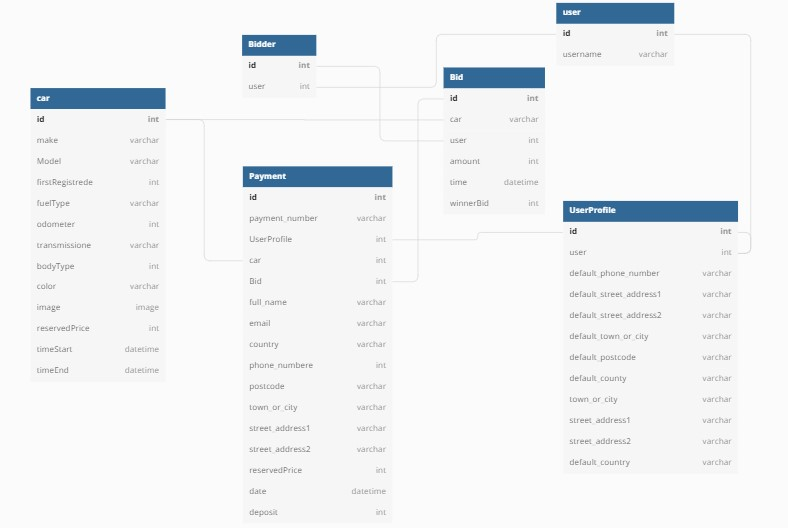
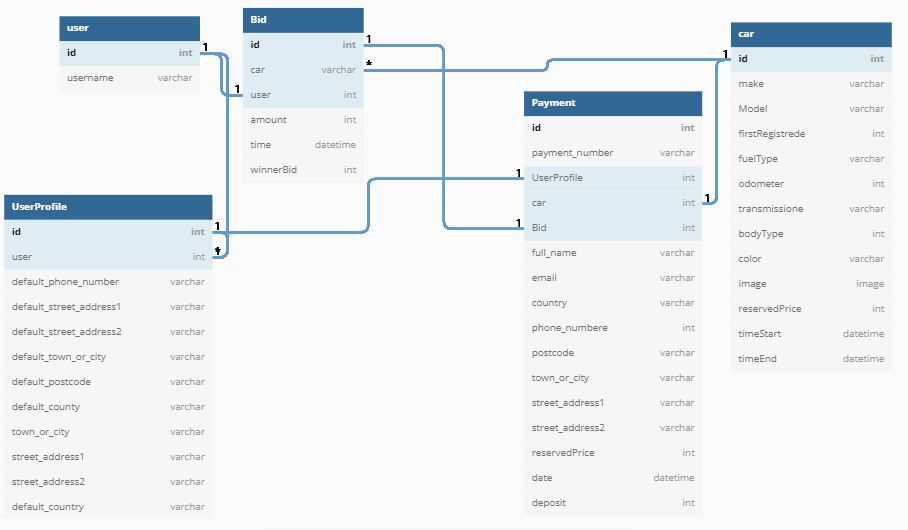
added to Readme

diff --git a/README.md b/README.md
@@ -4,11 +4,11 @@
 
 Classic Cars Auctions is an online auction website specializing in classic cars, offering enthusiasts the opportunity to buy vehicles from across the eras. It is designed to be responsive and accessible on a range of devices, making it easy to navigate for potential customers.
 
-- Home page on diffrent divices<br>
+ Home page on diffrent divices<br>
 <h2 align="center"><img src="readme_files/images/homepage.jpg"></h2><br><br>
-- Auctions page on diffrent divices<br>
+ Auctions page on diffrent divices<br>
 <h2 align="center"><img src="readme_files/images/auctionspage.jpg"></h2></h2><br><br>
-- Auction_detail page on diffrent divices<br>
+Auction_detail page on diffrent divices<br>
 <h2 align="center"><img src="readme_files/images/auction_detail.jpg"></h2></h2><br><br>
 
 ## User Experience (UX)
@@ -91,20 +91,13 @@ Classic Cars Auctions is an online auction website specializing in classic cars,
     1. Car Model:<br> 
     represents an auction and contains all car necesserey information.</br></br>
         <h3 align="center"><img src="readme_files/images/car_model.jpg"></h3><br><br>
-        
-        
-    2.  Bidder Model:<br>
-        The Bidder Model contains all the information about the bidding user and is related to User by One To One relationship.
-        </br></br>
-        <h3 align="center"><img src="readme_files/images/Bidder_model.jpg"></h3> 
 
     3. The bid Model :<br> contains all information about the bid placed by the user and a Boolean field winnerBid, which is set by default to None. Once the auction ends, if the given bid is a winning bid, the field's value is updated to True.
         </br></br>
         <h3 align="center"><img src="readme_files/images/bid_model.jpg"></h3> </br></br>
 -   #### Models Relationship for Auctions App
     1. The Car Model is related to the Bid Model by relation OnetoMany as the Bid model takes The car model as ForegineKey. 
-    2. The bidder Model is related to Bid Model by relation OnetoMany as the Bid model takes The user field, the only field in the Bidder model, as ForegineKey. 
-    3. The bidder model is related to Allauth User Model by relation OneToOne.
+    2. The Bid model is related to Allauth User Model by relation OneToOne.
     </br></br>
     <h3 align="center"><img src="readme_files/images/auction_relation.jpg"></h3> </br></br>
 
@@ -125,10 +118,12 @@ Classic Cars Auctions is an online auction website specializing in classic cars,
 -   #### Models
     1. UserProfile Model:<br> 
     The UserProfile Model contains all user detail needed for payment as the Payment Model use the data stored in the UserProfile Model.</br></br>
-        <h3 align="center"><img src="readme_files/images/allapps-relations.jpg"></h3><br><br>
+    <h3 align="center"><img src="readme_files/images/UserProfile.jpg"></h3><br><br>    
 
 -   ### Relationship between Models across all Apps.
-        
+    1. Car Model that represents the auction is related to Bid Model. The Payment Model is related to the To Car Model, Bid Model, and UserProfile Model, as payment use user info stored in the UserProfile Model for payment.
+    2. Allauth User Model is related to Bid Model and UserProfile.<br><br>
+    <h3 align="center"><img src="readme_files/images/allapps-relations.jpg"></h3><br><br>
         
     
 
@@ -189,14 +184,14 @@ Classic Cars Auctions is an online auction website specializing in classic cars,
 
 The W3C Markup Validator and W3C CSS Validator Services were used to validate every page of the project to ensure there were no syntax errors in the project.
 
--   [W3C Markup Validator](https://jigsaw.w3.org/css-validator/#validate_by_input) - [Results](https://github.com/)
+-   [W3C Markup Validator](https://jigsaw.w3.org/css-validator/#validate_by_input) - [Results](https://github.com/uskawi/classic_cars_auctions/tree/main/readme_files/images)
 -   [W3C CSS Validator](https://jigsaw.w3.org/css-validator/#validate_by_input) - [Results](https://github.com/)
 
 The JSHint JavaScript Validator was used to validate every file containing JavaScript  of the project to ensure there  were no errors.
 -   [W3C Markup Validator](https://jigsaw.w3.org/css-validator/#validate_by_input) - [Results](https://github.com/)
 
 The PEP8 online Python  Validator a was used to validate every Python file of the project to ensure there were no  errors.
--   [](http://pep8online.com/) - [Results](https://github.com/)
+-   [PEP8 online](http://pep8online.com/) - [Results](https://github.com/)
 
 ### Testing User Stories from User Experience (UX) Section
 
